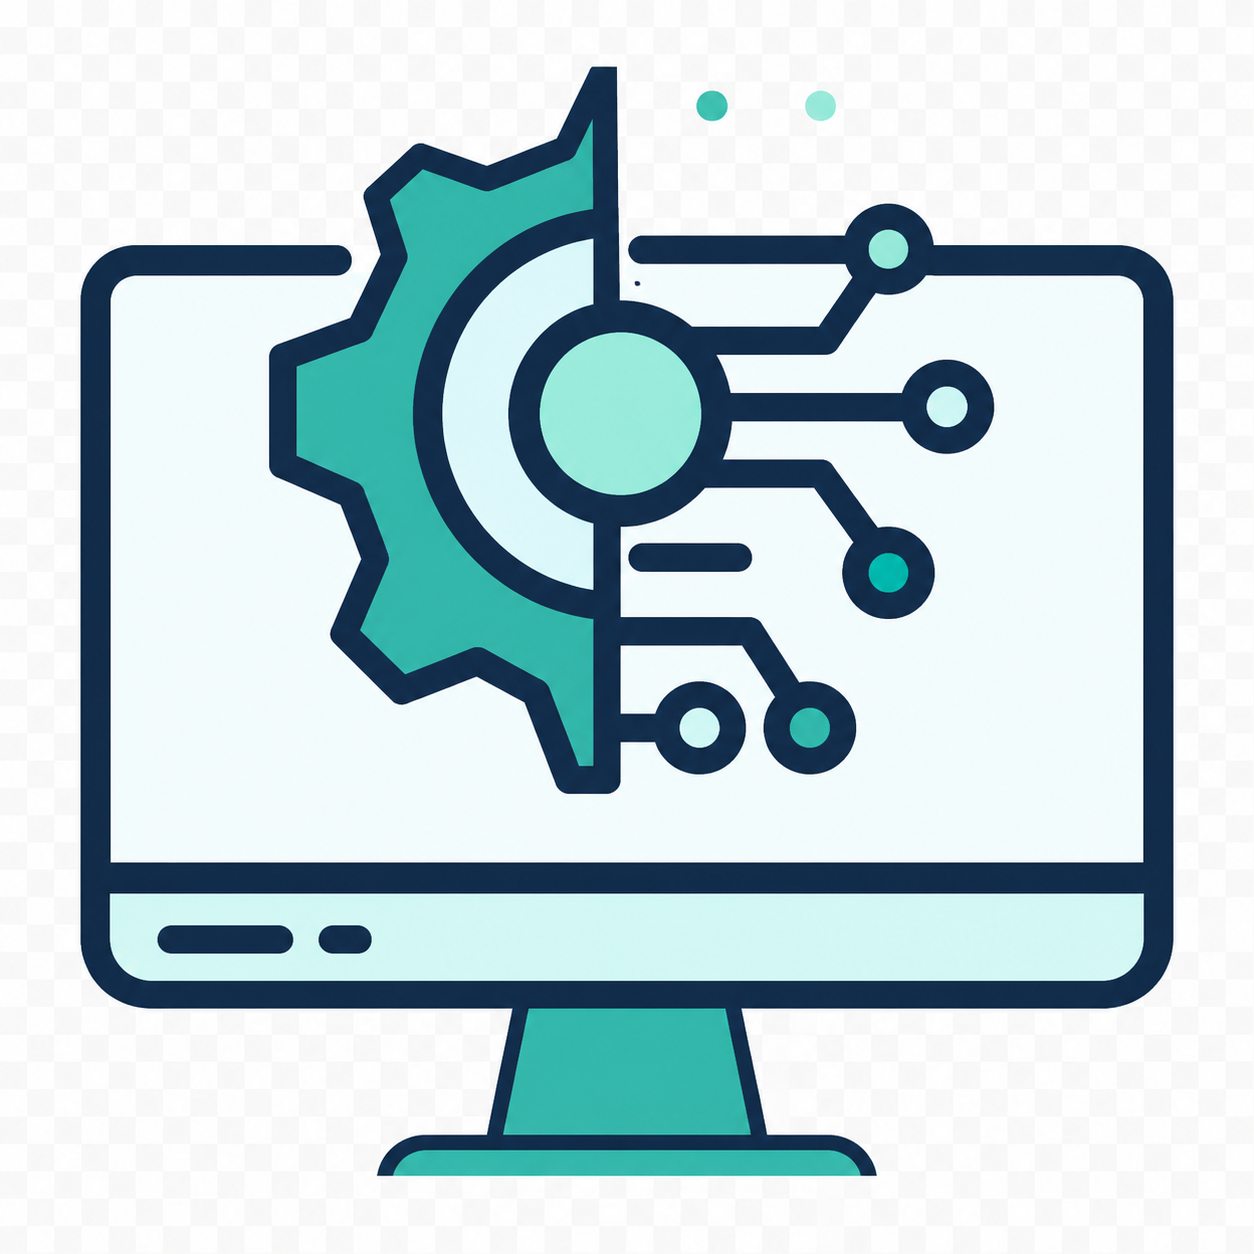
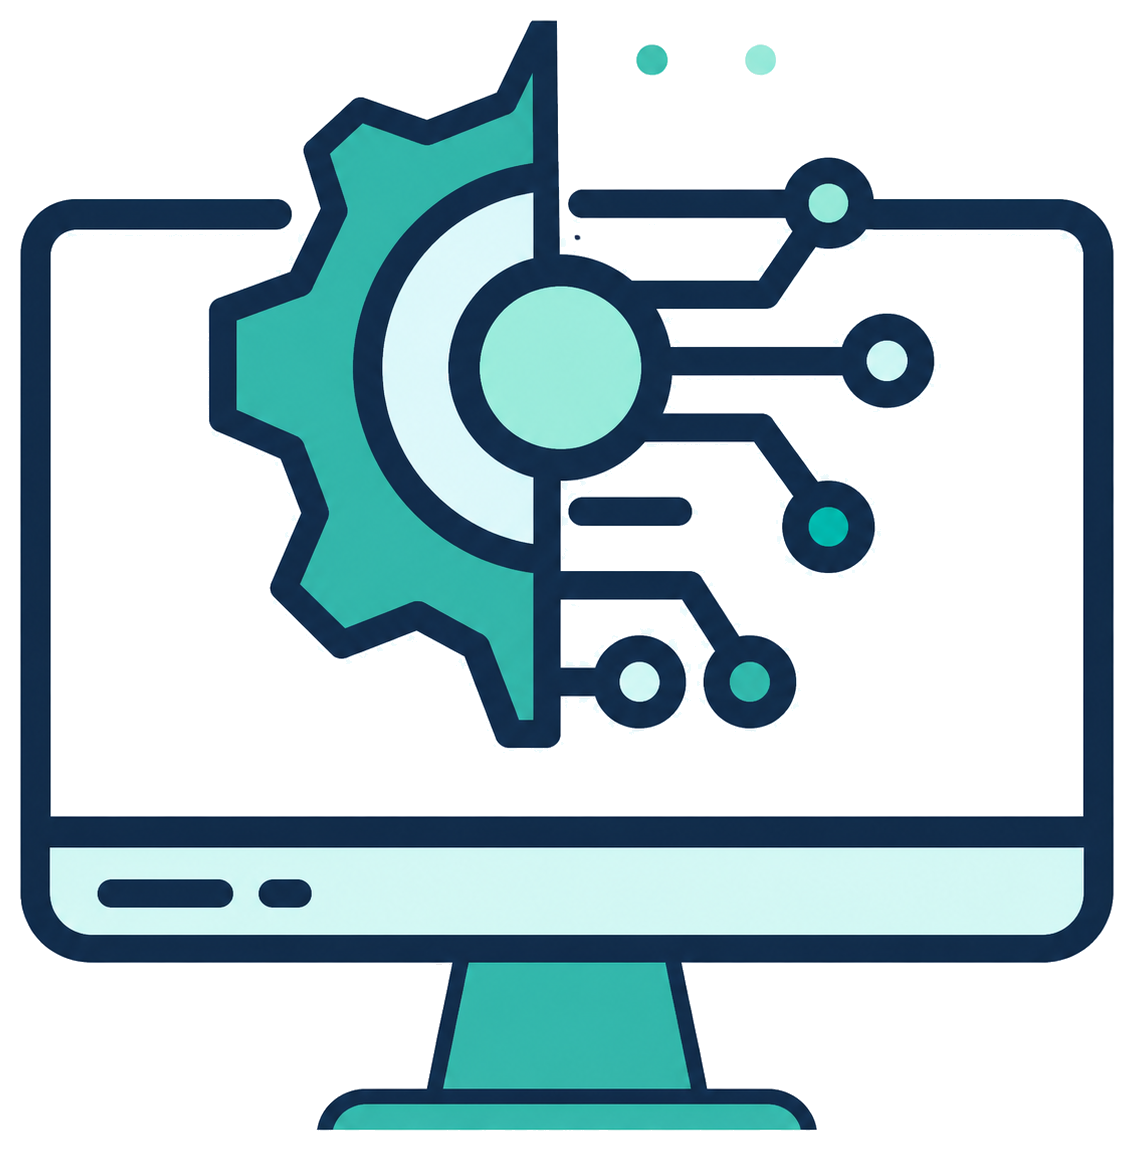
b

diff --git a/components/portal-shell.tsx b/components/portal-shell.tsx
@@ -1212,7 +1212,7 @@ export function PortalShell() {
           </div>
           <nav className="relative z-10 flex flex-wrap items-center justify-between gap-4">
             <div className="flex items-center gap-3">
-              <BrandMark className="size-12 bg-white/92 p-1.5 ring-white/35" imageClassName="size-9" />
+              <BrandMark className="size-12" />
               <div>
                 <p className="text-xl font-black tracking-wide">IT HELP ME!</p>
               </div>
@@ -1407,8 +1407,13 @@ function Panel({ children, className = "" }: { children: ReactNode; className?: 
 
 function BrandMark({ className = "", imageClassName = "" }: { className?: string; imageClassName?: string }) {
   return (
-    <span className={`flex shrink-0 items-center justify-center rounded-md shadow-sm ${className}`}>
-      <img className={`object-contain ${imageClassName}`} src={APP_ICON_SRC} alt="" aria-hidden="true" />
+    <span className={`flex shrink-0 items-center justify-center ${className}`}>
+      <img
+        className={`h-full w-full object-contain drop-shadow-[0_1px_1px_rgba(15,23,42,0.22)] ${imageClassName}`}
+        src={APP_ICON_SRC}
+        alt=""
+        aria-hidden="true"
+      />
     </span>
   );
 }
@@ -1464,7 +1469,7 @@ function LoginScreen({
       <section className="relative mx-auto flex w-full flex-1 items-center py-6 sm:max-w-3xl">
         <form className="w-full rounded-lg bg-white p-5 shadow-soft ring-1 ring-slate-200 sm:p-7" onSubmit={onSubmit}>
           <div className="mb-6 flex items-center gap-3">
-            <BrandMark className="size-14 bg-white p-2 ring-1 ring-aqua/20" imageClassName="size-10" />
+            <BrandMark className="size-16" />
             <div>
               <p className="text-2xl font-black tracking-wide text-slate-950">IT HELP ME!</p>
               <p className="mt-1 text-sm font-bold text-slate-500">Chọn tài khoản/phòng ban trước khi vào hệ thống.</p>

diff --git a/05-WORKLOG.md b/05-WORKLOG.md
@@ -34,7 +34,7 @@
 3. Đã có session cookie httpOnly ký HMAC và route protection backend: chưa login không thấy ticket; phòng ban chỉ xem/tạo/rating ticket của mình; IT mới quản trị danh mục, xử lý, xóa và import dữ liệu.
 4. Prisma schema PostgreSQL/Supabase đã có các model chính: `Department`, `ITStaff`, `Account`, `Request`, `RequestAttachment`, `RequestStatusHistory`, `ChatMessage`; enum `RequestStatus` có `NEW`, `ACCEPTED`, `IN_PROGRESS`, `DONE`, `REJECTED`.
 5. Runtime Prisma dùng `@prisma/adapter-pg`; `DATABASE_URL` được normalize thêm `uselibpqcompat=true` khi URL có `sslmode=require` để tránh lỗi SSL self-signed của `pg`.
-6. Production Vercel `https://it-help-me.vercel.app` đang ở bản deploy sau các fix chat/UTF-8 gần nhất; source chính có guard `check:encoding`, đã thêm icon nhận diện mới từ `public/it.png` cho favicon/logo và footer bản quyền TeamIT Gustino ở giao diện.
+6. Production Vercel `https://it-help-me.vercel.app` đã deploy lại bản icon/footer TeamIT Gustino; `public/it.png` đã được làm nền trong suốt và header/login không còn khung trắng quanh logo.
 
 ## VIỆC TIẾP THEO
 
@@ -43,7 +43,7 @@
 3. Cân nhắc chuyển xóa nhân viên IT sang soft delete hoặc ràng buộc nghiệp vụ rõ hơn.
 4. Không commit hoặc chia sẻ `.env`/`.env.local`; nếu lộ password DB/service key thì rotate trong Supabase và cập nhật lại Vercel env.
 5. Thêm migration workflow chính thức thay cho `prisma db push` khi schema bắt đầu ổn định.
-6. Nếu muốn icon/footer mới xuất hiện trên production, deploy lại Vercel sau khi kiểm tra giao diện local.
+6. Kiểm tra lại production trên trình duyệt; nếu favicon/logo còn bản cũ thì hard refresh hoặc xóa cache trình duyệt.
 
 ## BLOCKERS
 
@@ -52,6 +52,12 @@
 ---
 
 ## NHẬT KÝ SESSION
+
+### [2026-07-10] Session 25 - Codex
+- **Làm được:** Redeploy Vercel cho bản icon/footer mới; sau phản hồi icon còn nền trắng vuông, đã làm sạch `public/it.png` thành PNG nền trong suốt, crop bớt nền caro cũ, xóa khung trắng/padding/ring khỏi `BrandMark`, rồi deploy lại production.
+- **File thay đổi chính:** `components/portal-shell.tsx`, `public/it.png`, `05-WORKLOG.md`.
+- **Đã test:** `npm.cmd run build` thành công, bao gồm `check:encoding`; `npx.cmd vercel --prod` thành công với deployment cuối `dpl_5UunxueTNNZf5PwRBDw2vpAFr1du` và alias `https://it-help-me.vercel.app`; smoke test `curl.exe -I https://it-help-me.vercel.app/api/state` trả `200 OK`; tải `https://it-help-me.vercel.app/it.png` về kiểm tra `size=1134x1151`, `A00=0`, `length=620174`.
+- **Lưu ý/cảnh báo cho người sau:** Deployment trước đó trong cùng lượt là `dpl_C1qzpWxGYjSpqnYKEhkFXF2H74rP` nhưng đã bị supersede bởi `dpl_5UunxueTNNZf5PwRBDw2vpAFr1du`; nếu trình duyệt còn favicon cũ thì do cache.
 
 ### [2026-07-10] Session 24 - Codex
 - **Làm được:** Thêm icon TeamIT Gustino từ `public/it.png` vào metadata favicon/apple/shortcut icon, thay logo lucide cũ ở header dashboard và màn hình đăng nhập bằng ảnh icon mới, thêm footer bản quyền `© 2026 Bản quyền thuộc về TeamIT Gustino` và tagline `Team IT Gustino – Xử lý cực pro!` ở cuối giao diện đăng nhập/dashboard.
@@ -82,9 +88,3 @@
 - **File thay đổi chính:** `components/portal-shell.tsx`, `app/api/chat/route.ts`, `lib/prisma.ts`, `scripts/check-encoding.mjs`, `05-WORKLOG.md`.
 - **Đã test:** `npx.cmd prisma generate` thành công; `npm.cmd run check:encoding` thành công; smoke test local gửi `/api/chat` sau login IT thành công và trả ID tin nhắn; `npm.cmd run build` thành công; `npx.cmd vercel --prod` deploy production thành công và alias lại `https://it-help-me.vercel.app`; smoke test production `curl.exe -I https://it-help-me.vercel.app/api/state` trả `200 OK`.
 - **Lưu ý/cảnh báo cho người sau:** Smoke test có gửi một tin nhắn test vào phòng kế toán trên DB local/đang trỏ theo `.env`; production đã deploy ở `dpl_3jDtUVuz6suvCMfmNEnv5B6eQaym`.
-
-### [2026-07-09] Session 19 - Codex
-- **Làm được:** Sửa chữ nút `Đăng xuất` còn bị lỗi ký tự; mở rộng modal `Lịch sử` lên tối đa 1280px, tăng min-width bảng và thêm `whitespace-nowrap` cho header/cell/status/rating để nội dung lịch sử không tự xuống hàng; bổ sung guard encoding bắt thêm biến thể chữ E-macron gây lỗi.
-- **File thay đổi chính:** `components/portal-shell.tsx`, `scripts/check-encoding.mjs`, `05-WORKLOG.md`.
-- **Đã test:** `npm.cmd run check:encoding` thành công; `npm.cmd run build` thành công.
-- **Lưu ý/cảnh báo cho người sau:** Chưa deploy production trong session này; nếu viewport quá hẹp bảng lịch sử vẫn dùng thanh cuộn ngang, nhưng text trong từng ô không bị wrap.